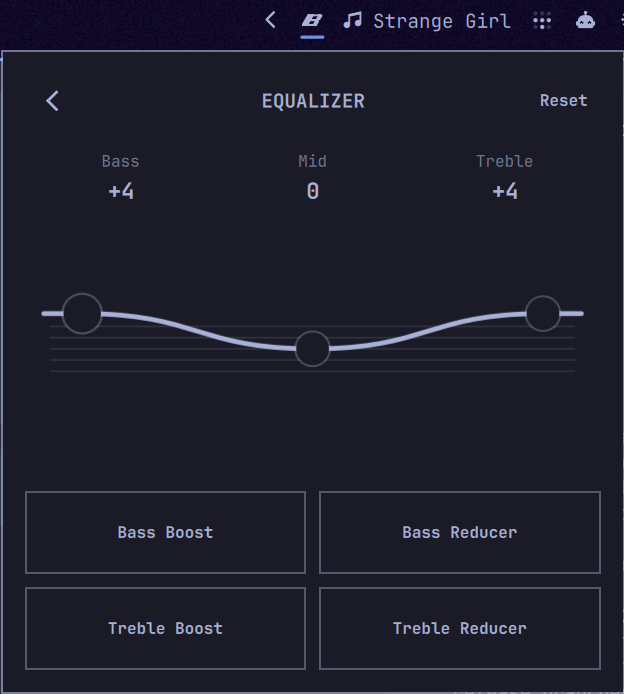
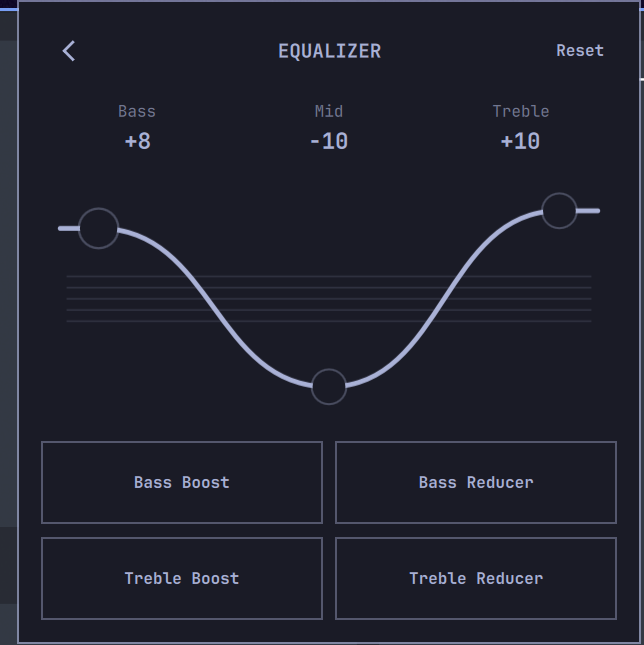
Refresh panel previews from live hardware
Update the earbuds main and equalizer captures and add a QuietComfort
35 main view.

diff --git a/README.md b/README.md
@@ -5,11 +5,15 @@ connection and battery state, with Bose listening-mode and noise-control actions
 and a three-band equalizer through the bundled `bosectl` implementation.
 
 <p align="center">
-  <img src="preview.png" width="390" alt="Omabose main panel with two Bose devices, battery levels, listening modes, and noise control" />
+  <img src="preview.png" width="390" alt="Omabose main panel with three Bose devices, earbuds battery levels, listening modes, and noise control" />
 </p>
 
 <p align="center">
   <img src="preview-equalizer.png" width="390" alt="Omabose 0.3.2 bar icon and equalizer with Bass, Mid, and Treble controls and four presets" />
+</p>
+
+<p align="center">
+  <img src="preview-qc35.png" width="390" alt="Omabose main panel with the QuietComfort 35 selected, battery level, and listening modes" />
 </p>
 
 The plugin does not use Bose cloud or account services.
